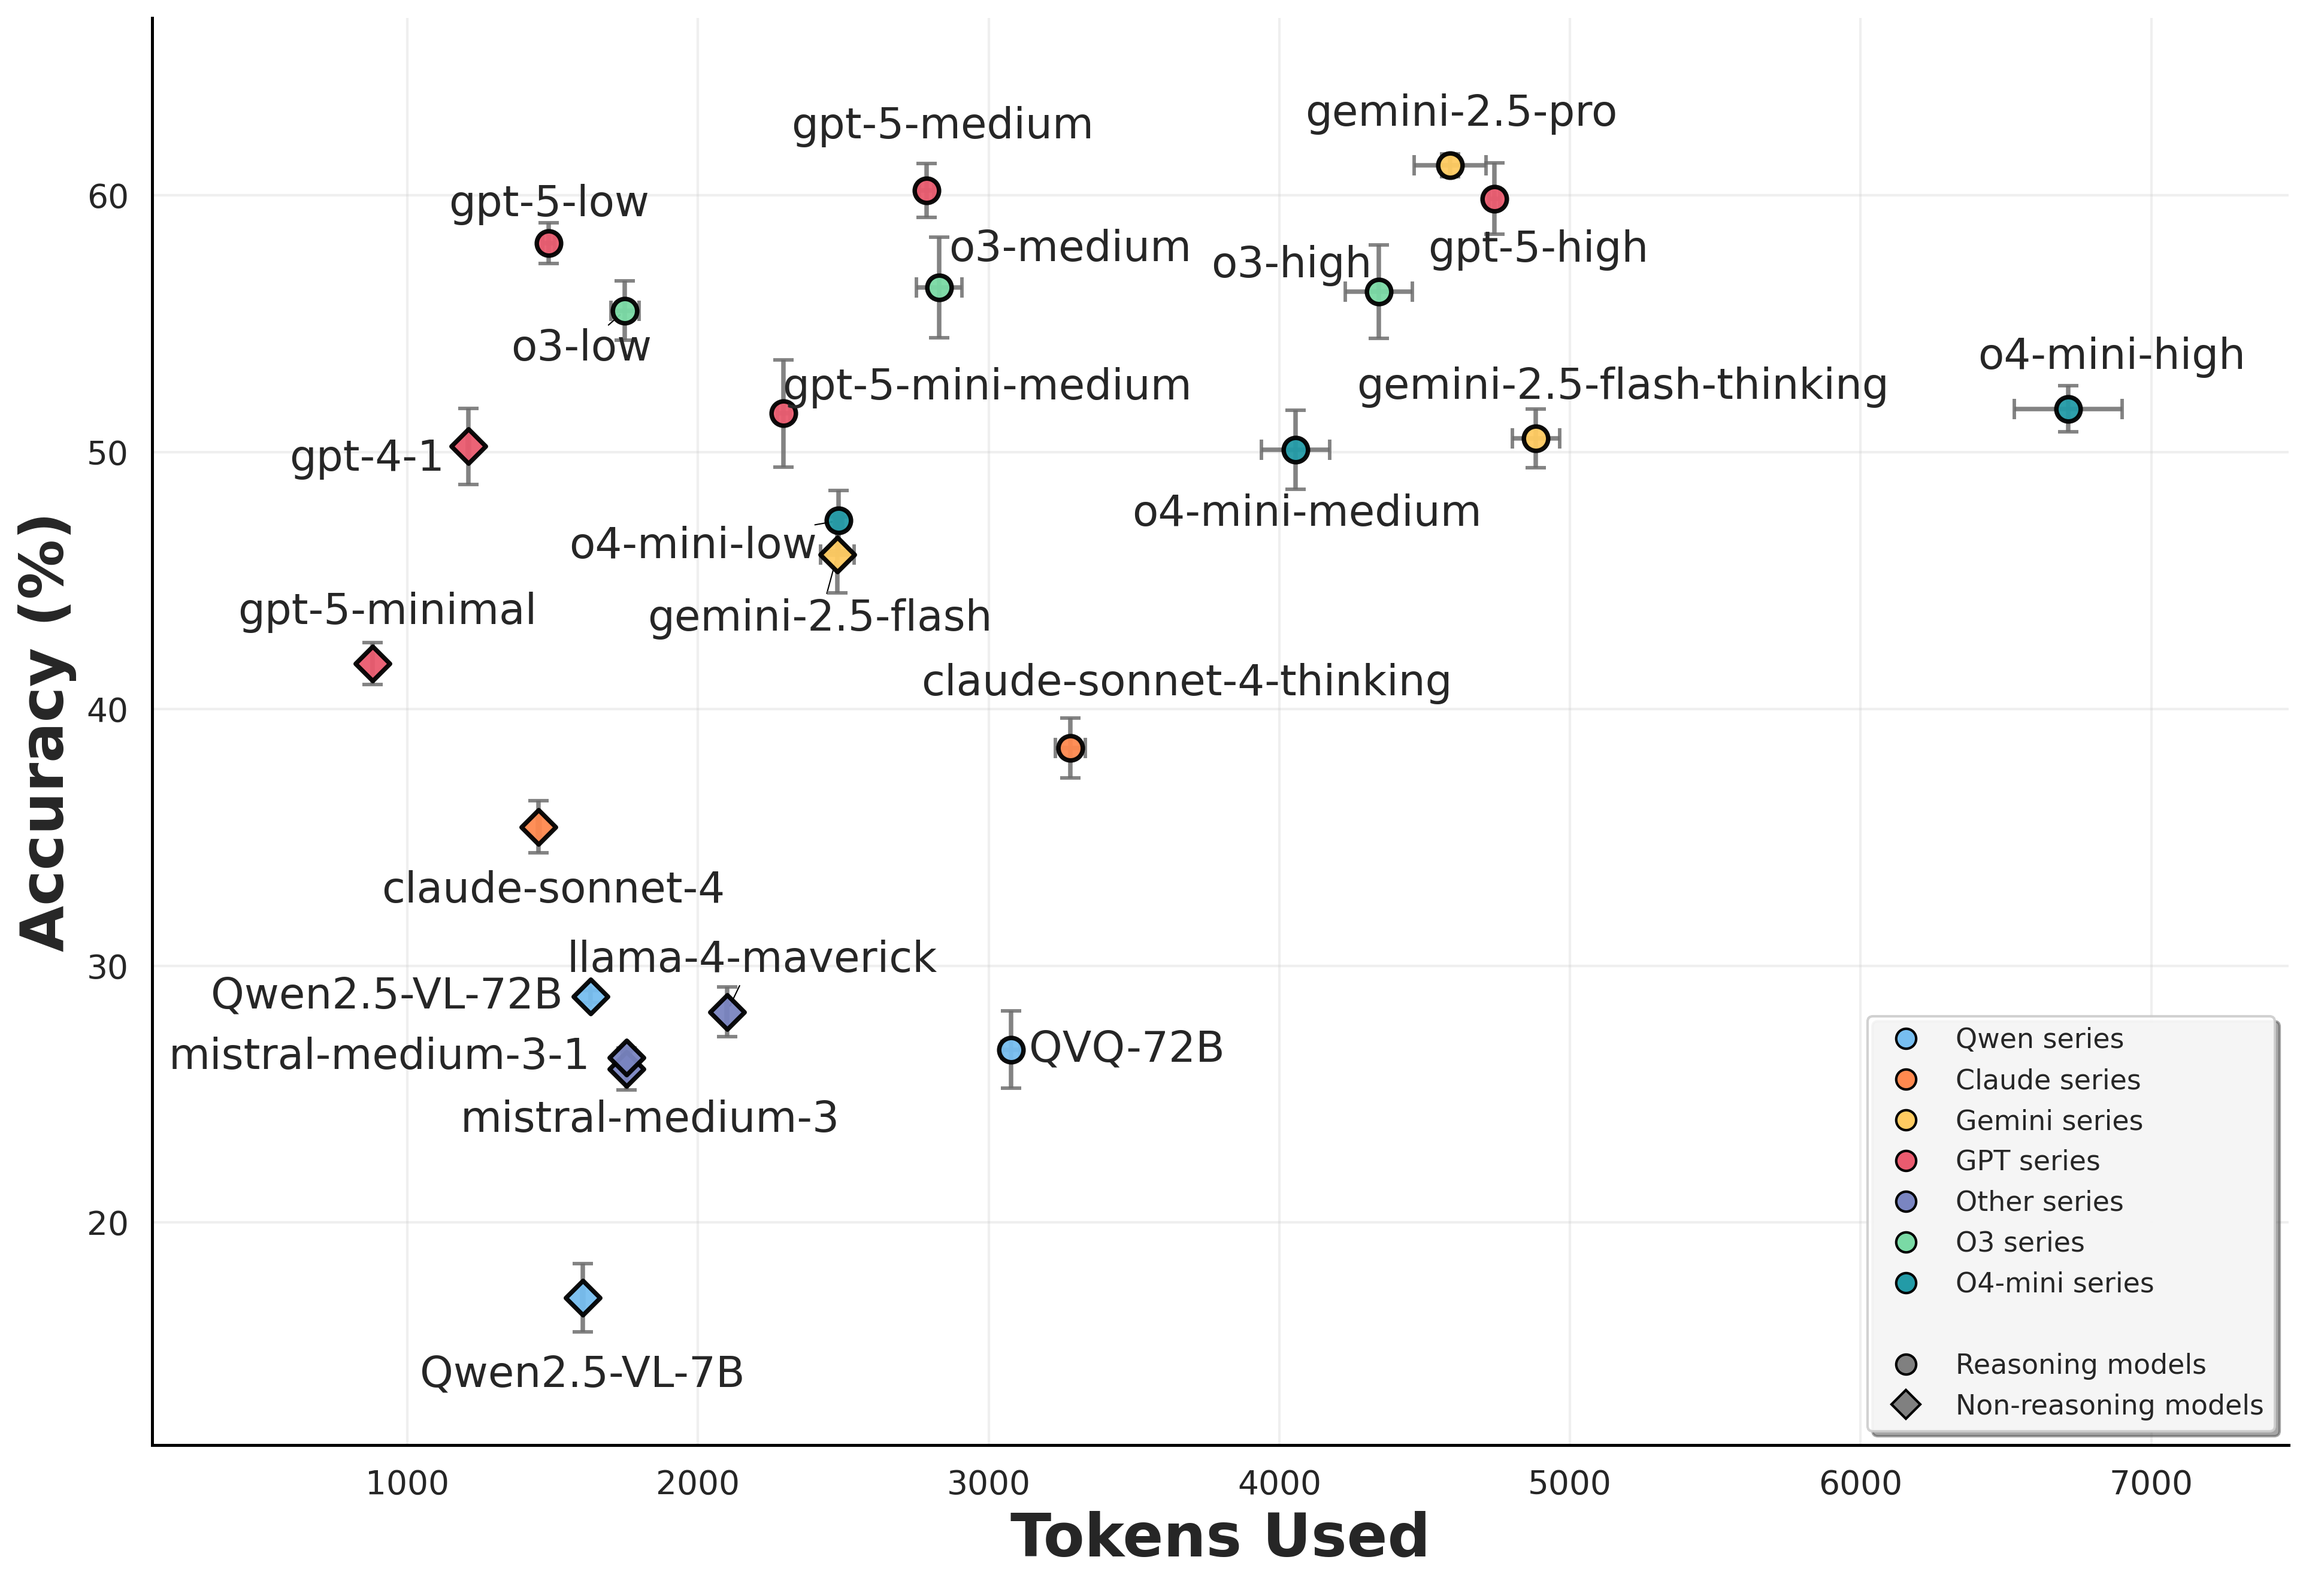
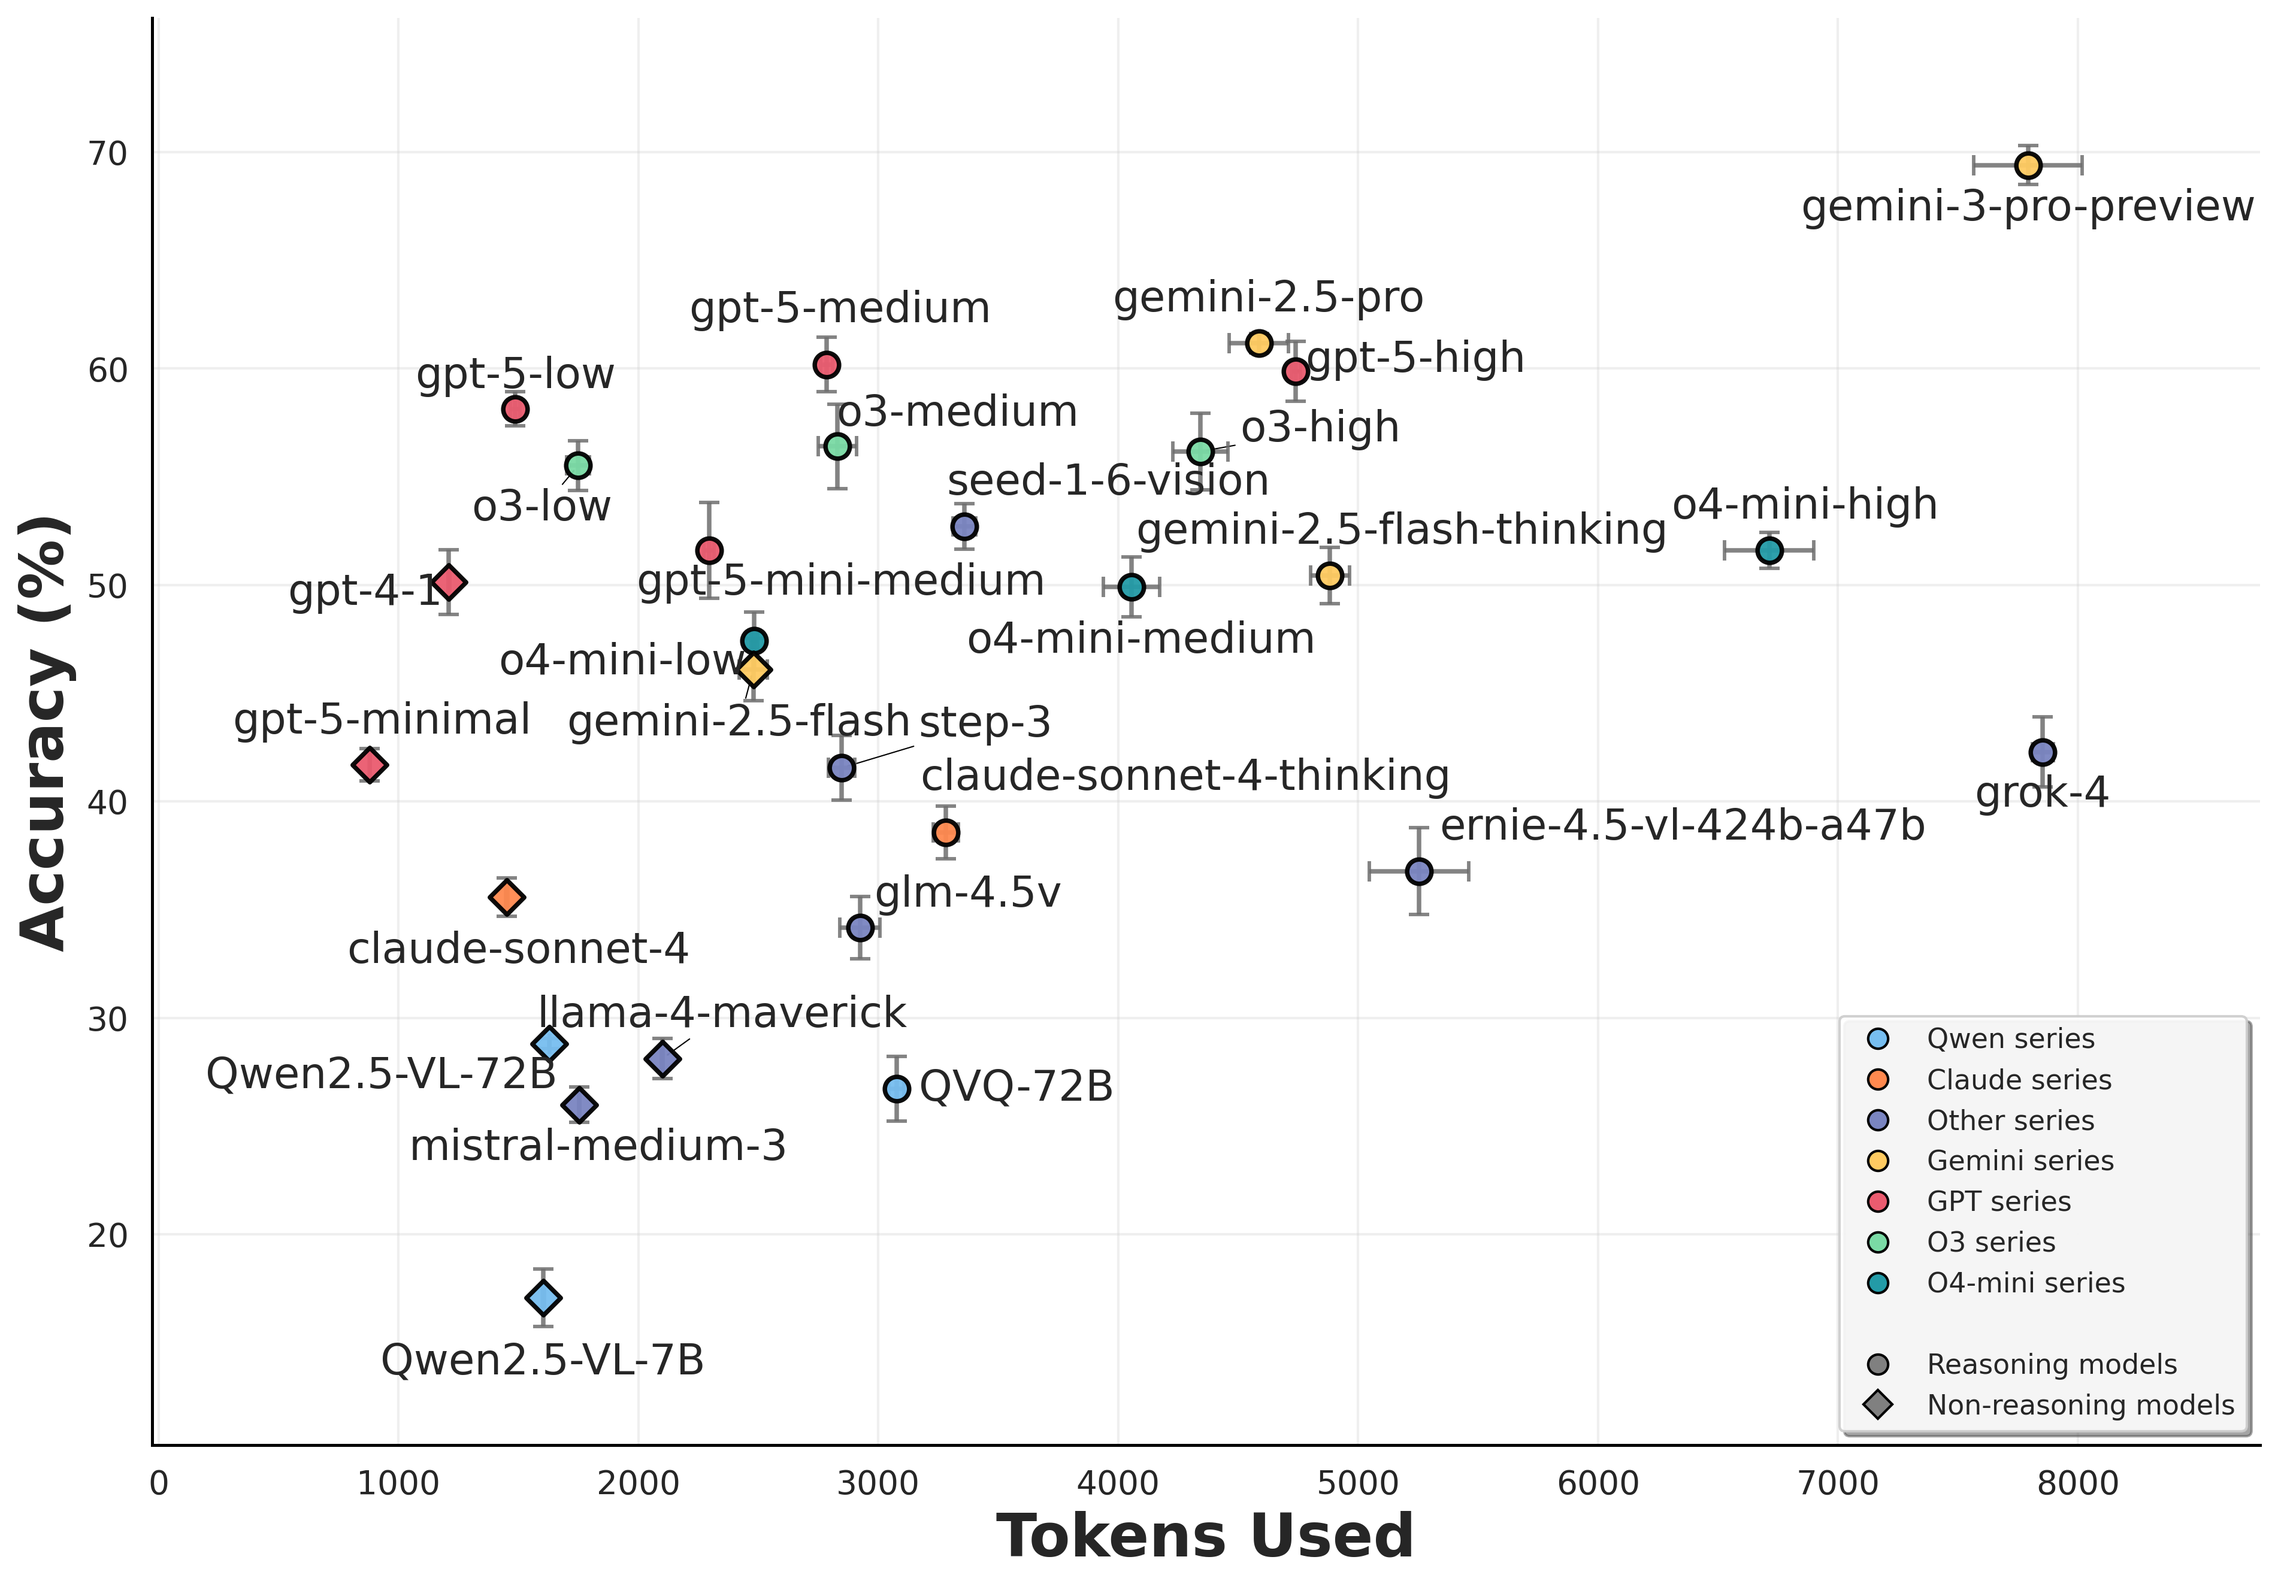
update gemini-3-pro and grok-4

diff --git a/src/app/components/QuantitativeResults.tsx b/src/app/components/QuantitativeResults.tsx
@@ -411,6 +411,20 @@ const Leaderboard = () => {
   // Helper function to get model information based on model name
   const getModelInfo = (modelName: string) => {
     const modelMap: Record<string, { fullName: string, organization: string, logo: string, hasReasoning: boolean, link: string }> = {
+      'gemini-3-pro-preview': {
+        fullName: 'Gemini 3 Pro Preview',
+        organization: 'Google',
+        logo: `${getBasePath()}/model_logos/google-gemini-icon.png`,
+        hasReasoning: true,
+        link: 'https://deepmind.google/technologies/gemini/'
+      },
+      'grok-4': {
+        fullName: 'Grok-4',
+        organization: 'xAI',
+        logo: `${getBasePath()}/model_logos/grok.png`,
+        hasReasoning: true,
+        link: 'https://x.ai'
+      },
       'gemini-2.5-pro': {
         fullName: 'Gemini 2.5 Pro',
         organization: 'Google',
